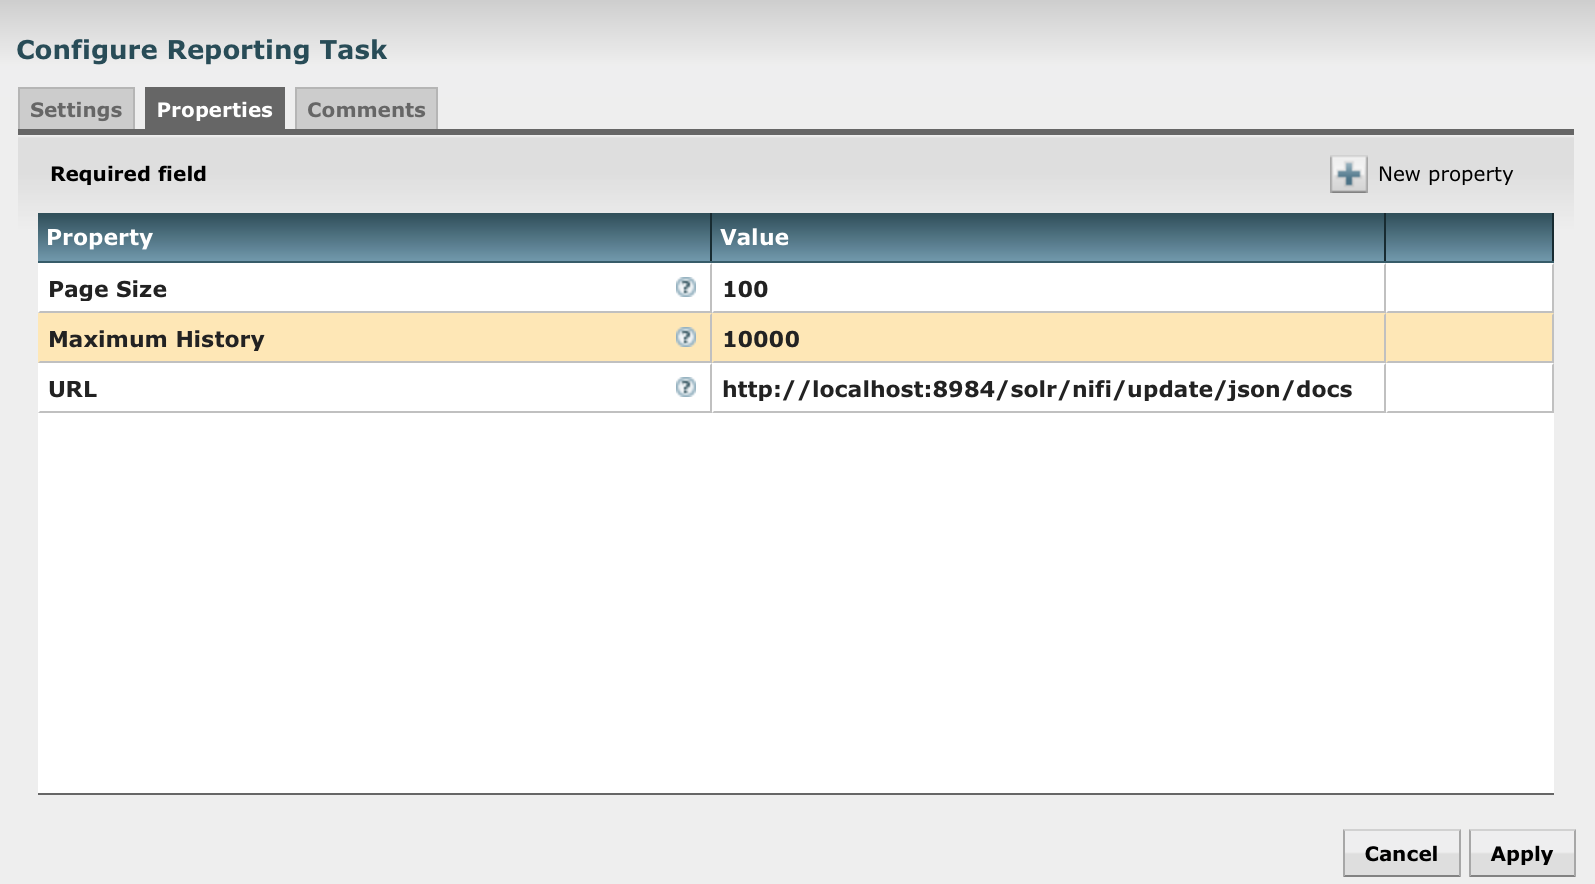
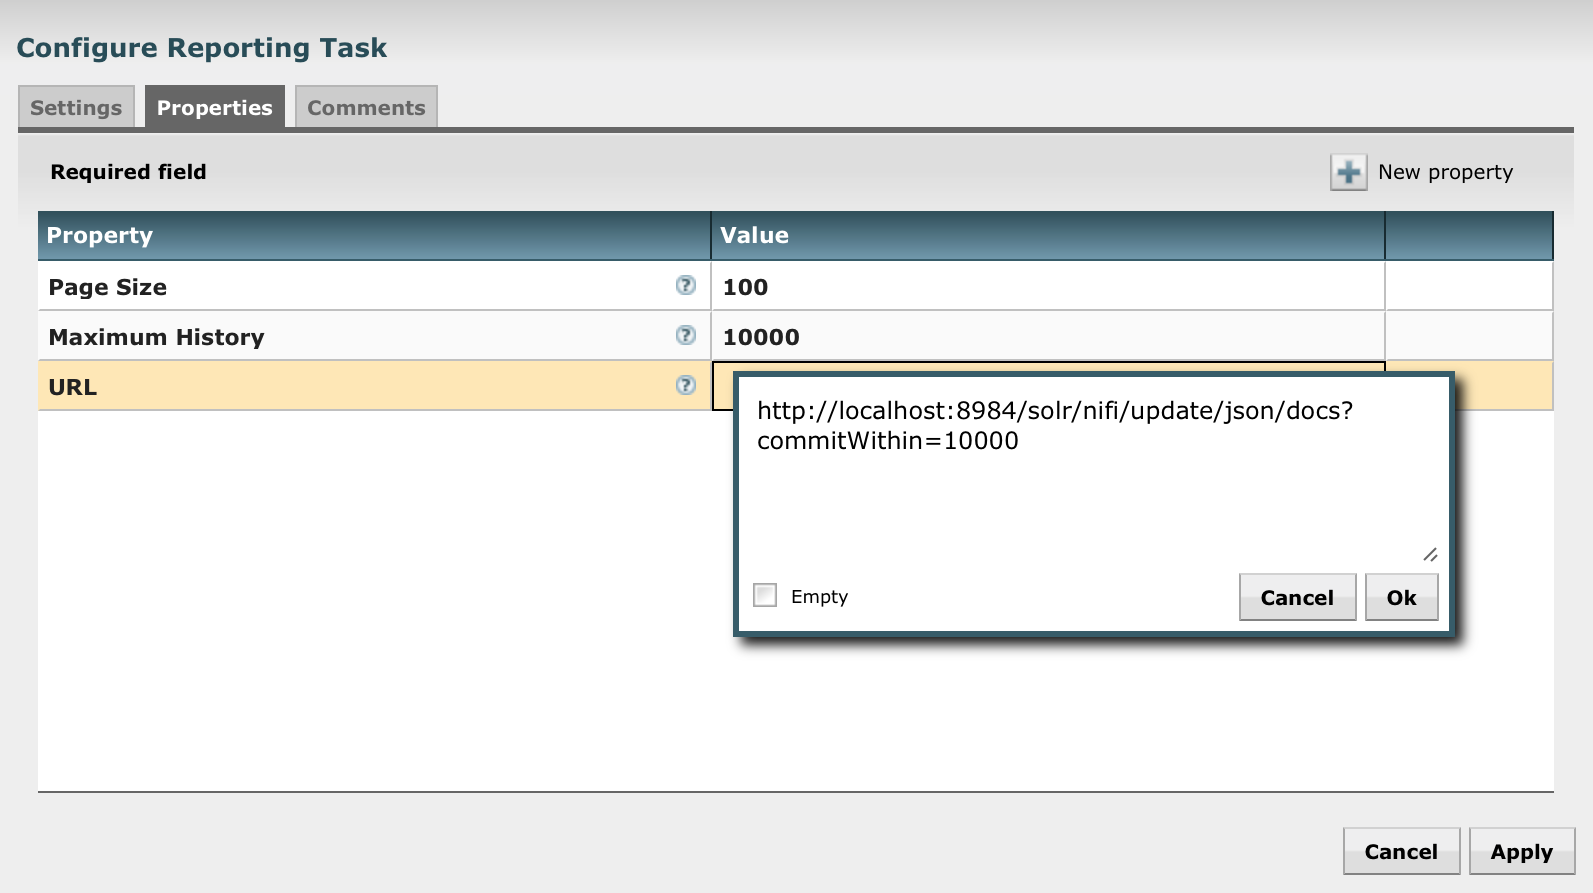
Version bump to 0.0.2-SNAPSHOT, renamed to provenance-reporting

Changed region(s): [[0.0, 0.1833, 0.9843, 0.733], [0.0, 0.0305, 0.9843, 0.1527], [0.0308, 0.8857, 1.0, 1.0]]

diff --git a/README.md b/README.md
@@ -1,23 +1,20 @@
-# nifi-elasticsearch-reporting-bundle
+# nifi-provenance-reporting-bundle
 
-NiFi Elasticsearch reporting tasks.
+NiFi provenance reporting tasks.
 
 ## Table of Contents
 
 - [Installation](#installation)
 - [Tasks](#tasks)
     - [ElasticsearchProvenanceReporter](#elasticsearchprovenancereporter)
-        - [Processor Properties](#processor-properties)
-        - [Example Event](#example-event)
     - [HttpProvenanceReporter](#httpprovenancereporter)
-        - [Processor Properties](#processor-properties)
 - [Todo](#todo)
 
 ## Installation
 
 ```sh
 $ mvn clean package
-$ cp nifi-elasticsearch-reporting-nar/target/nifi-elasticsearch-reporting-nar-0.0.1-SNAPSHOT.nar $NIFI_HOME/lib
+$ cp nifi-provenance-reporting-nar/target/nifi-provenance-reporting-nar-0.0.2-SNAPSHOT.nar $NIFI_HOME/lib
 $ nifi restart
 ```
 
@@ -41,15 +38,24 @@ Reporting task to POST provenance events to an HTTP web service.
 
 #### Reporting Task Properties
 
-This reporting task can be configured to POST provenance events to an arbitrary web service. Here is an example of using it with Solr:
+This reporting task can be configured to POST provenance events to an arbitrary web service. Here is an example of using it with Solr (10s commits):
 
 <img src="http_provenance_reporter_properties.png" width=600 />
 
 ## Todo
 
-- Use state management API to keep track of the most recent event indexed by ElasticsearchProvenanceReporter.
-- Use event id + timestamp for document id instead of event id on its own
+- Use state management API to keep track of the most recently indexed event.
+- Add batching support.
+- Handle child/parent ids.
+- Additional adapters:
+    - HDFS
+    - Tinkerpop
+    - NiFi site-to-site
+- Optional inclusion of FlowFile contents.
+- Create provenance event for runs of the reporting task.
+- Example schemas/mappings for data sources (Elasticsearch mapping, Solr schema, JSON schema).
+- Add testing.
 
 ## License
 
-Copyright (c) 2016 Joey Frazee. nifi-elasticsearch-reporting-bundle is released under the Apache License Version 2.0.
+Copyright (c) 2016 Joey Frazee. nifi-provenance-reporting-bundle is released under the Apache License Version 2.0.
